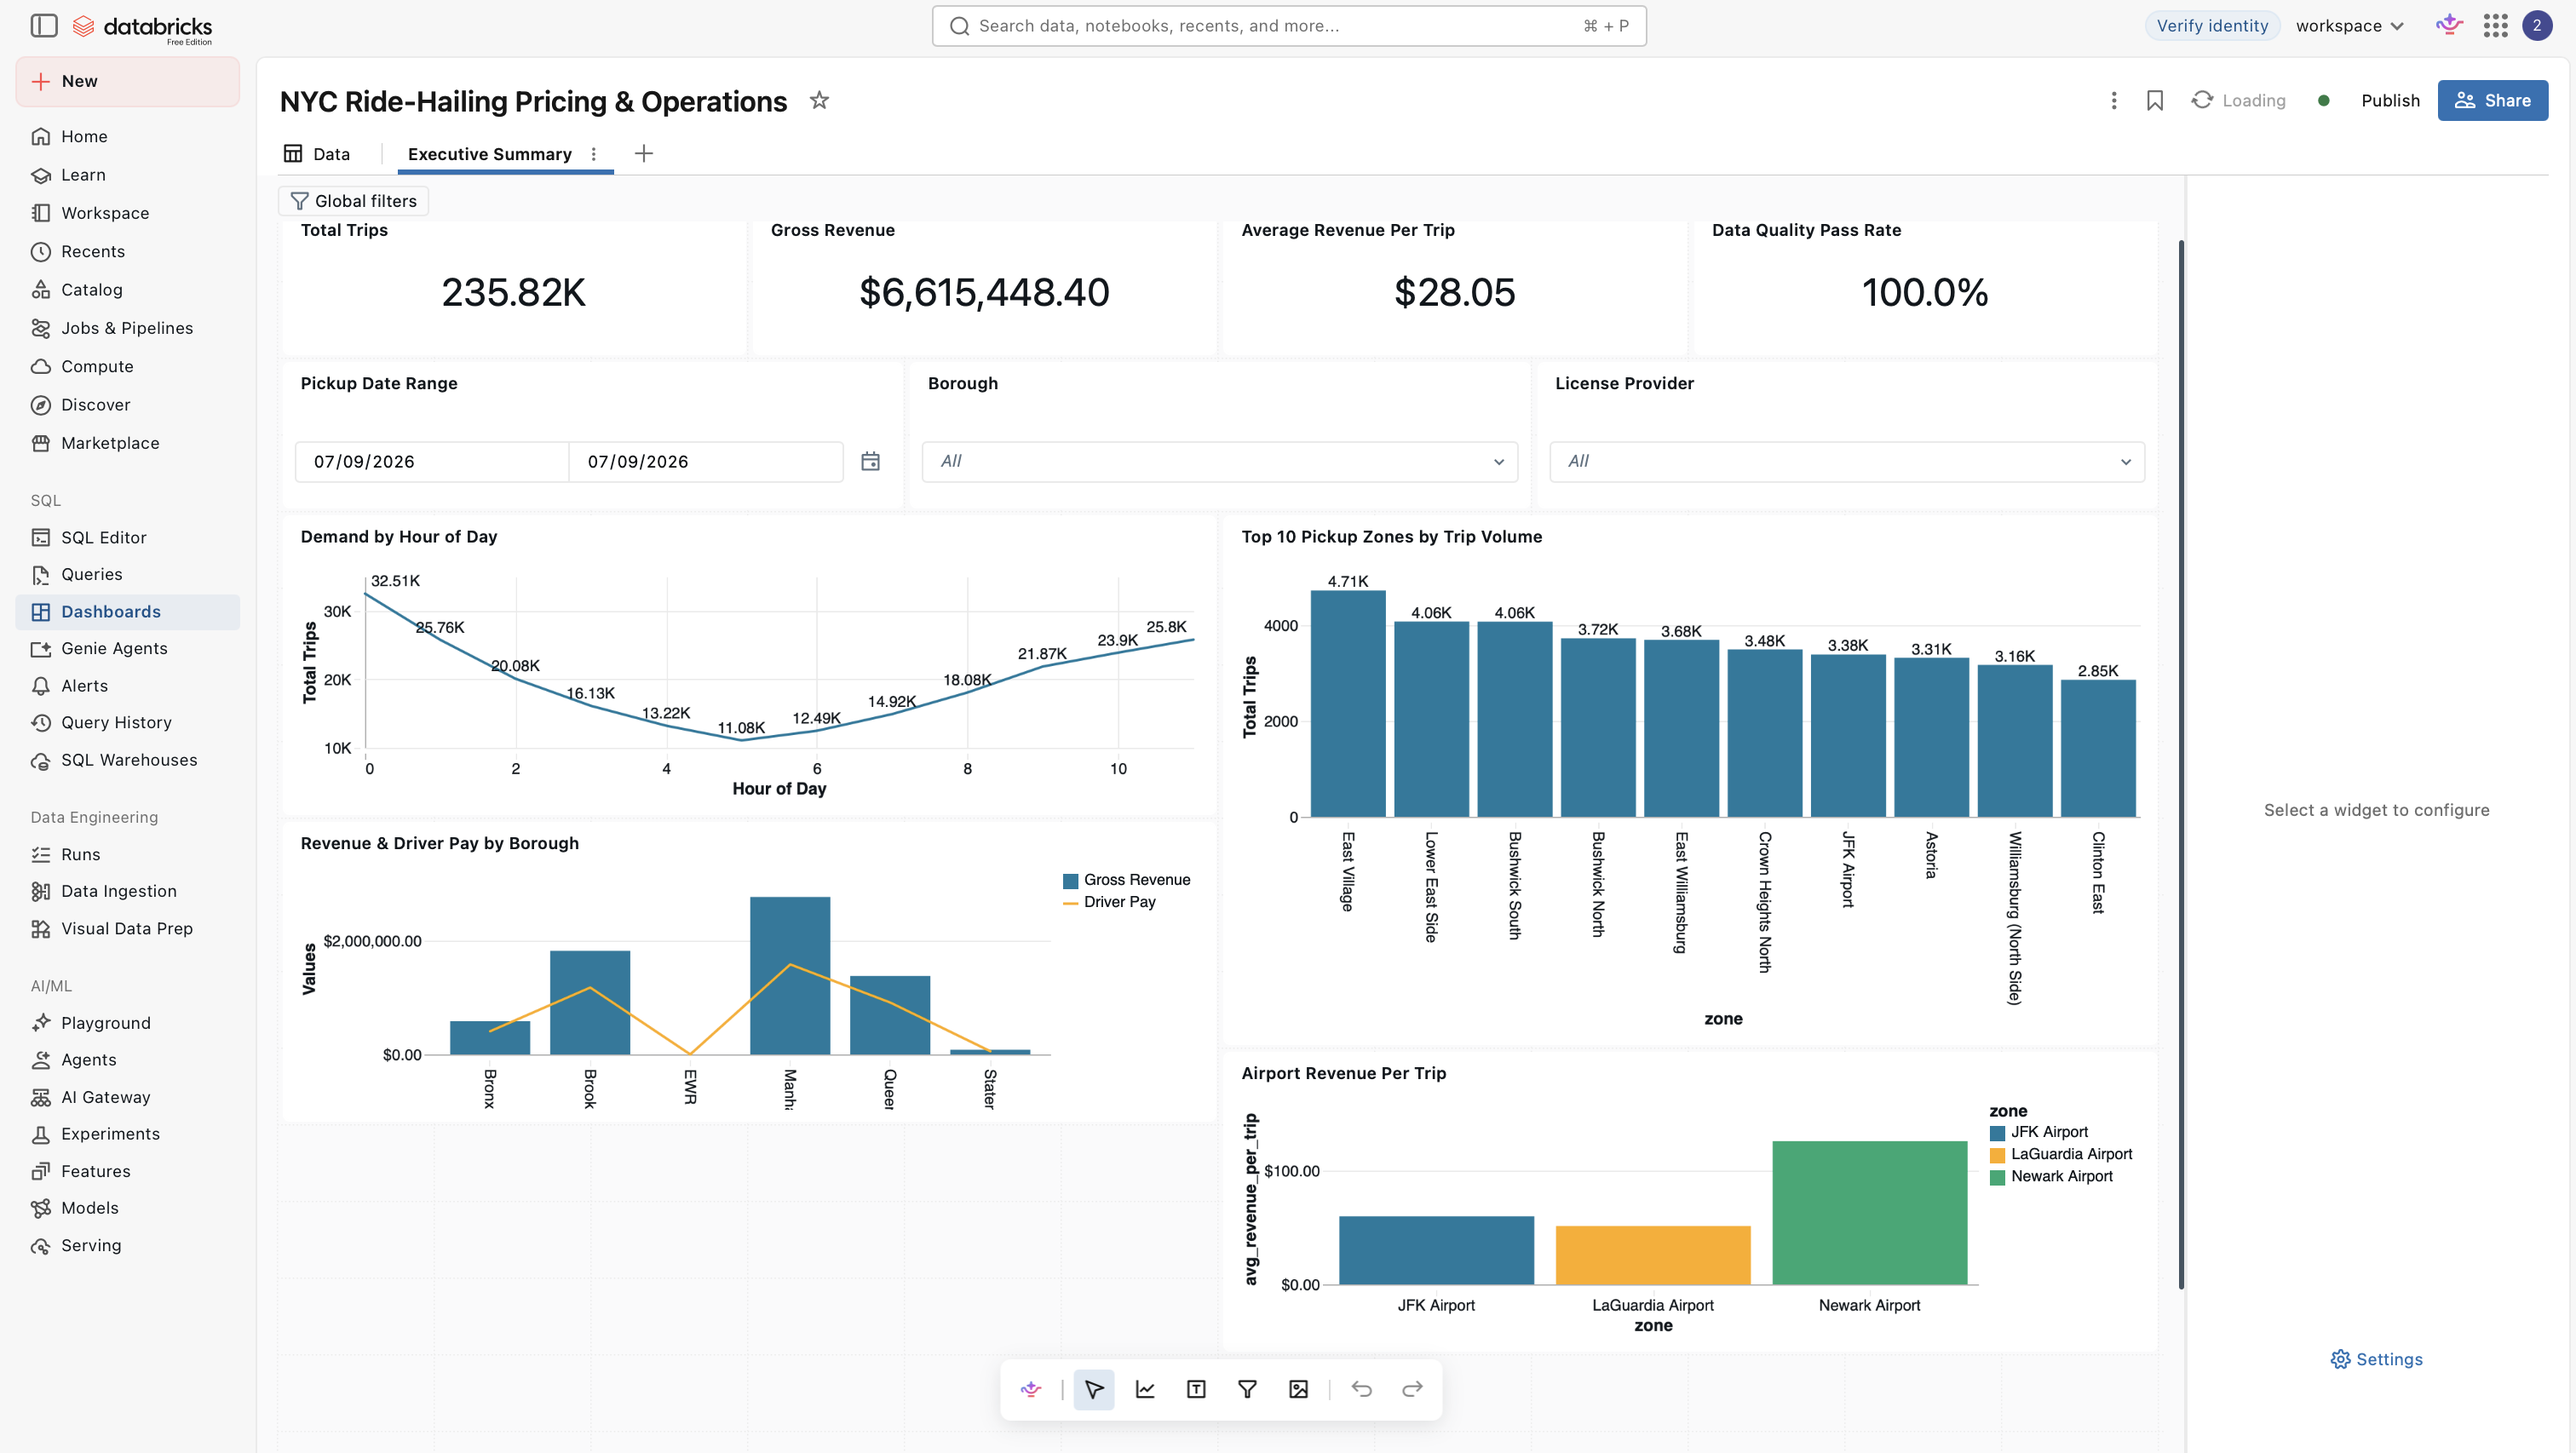
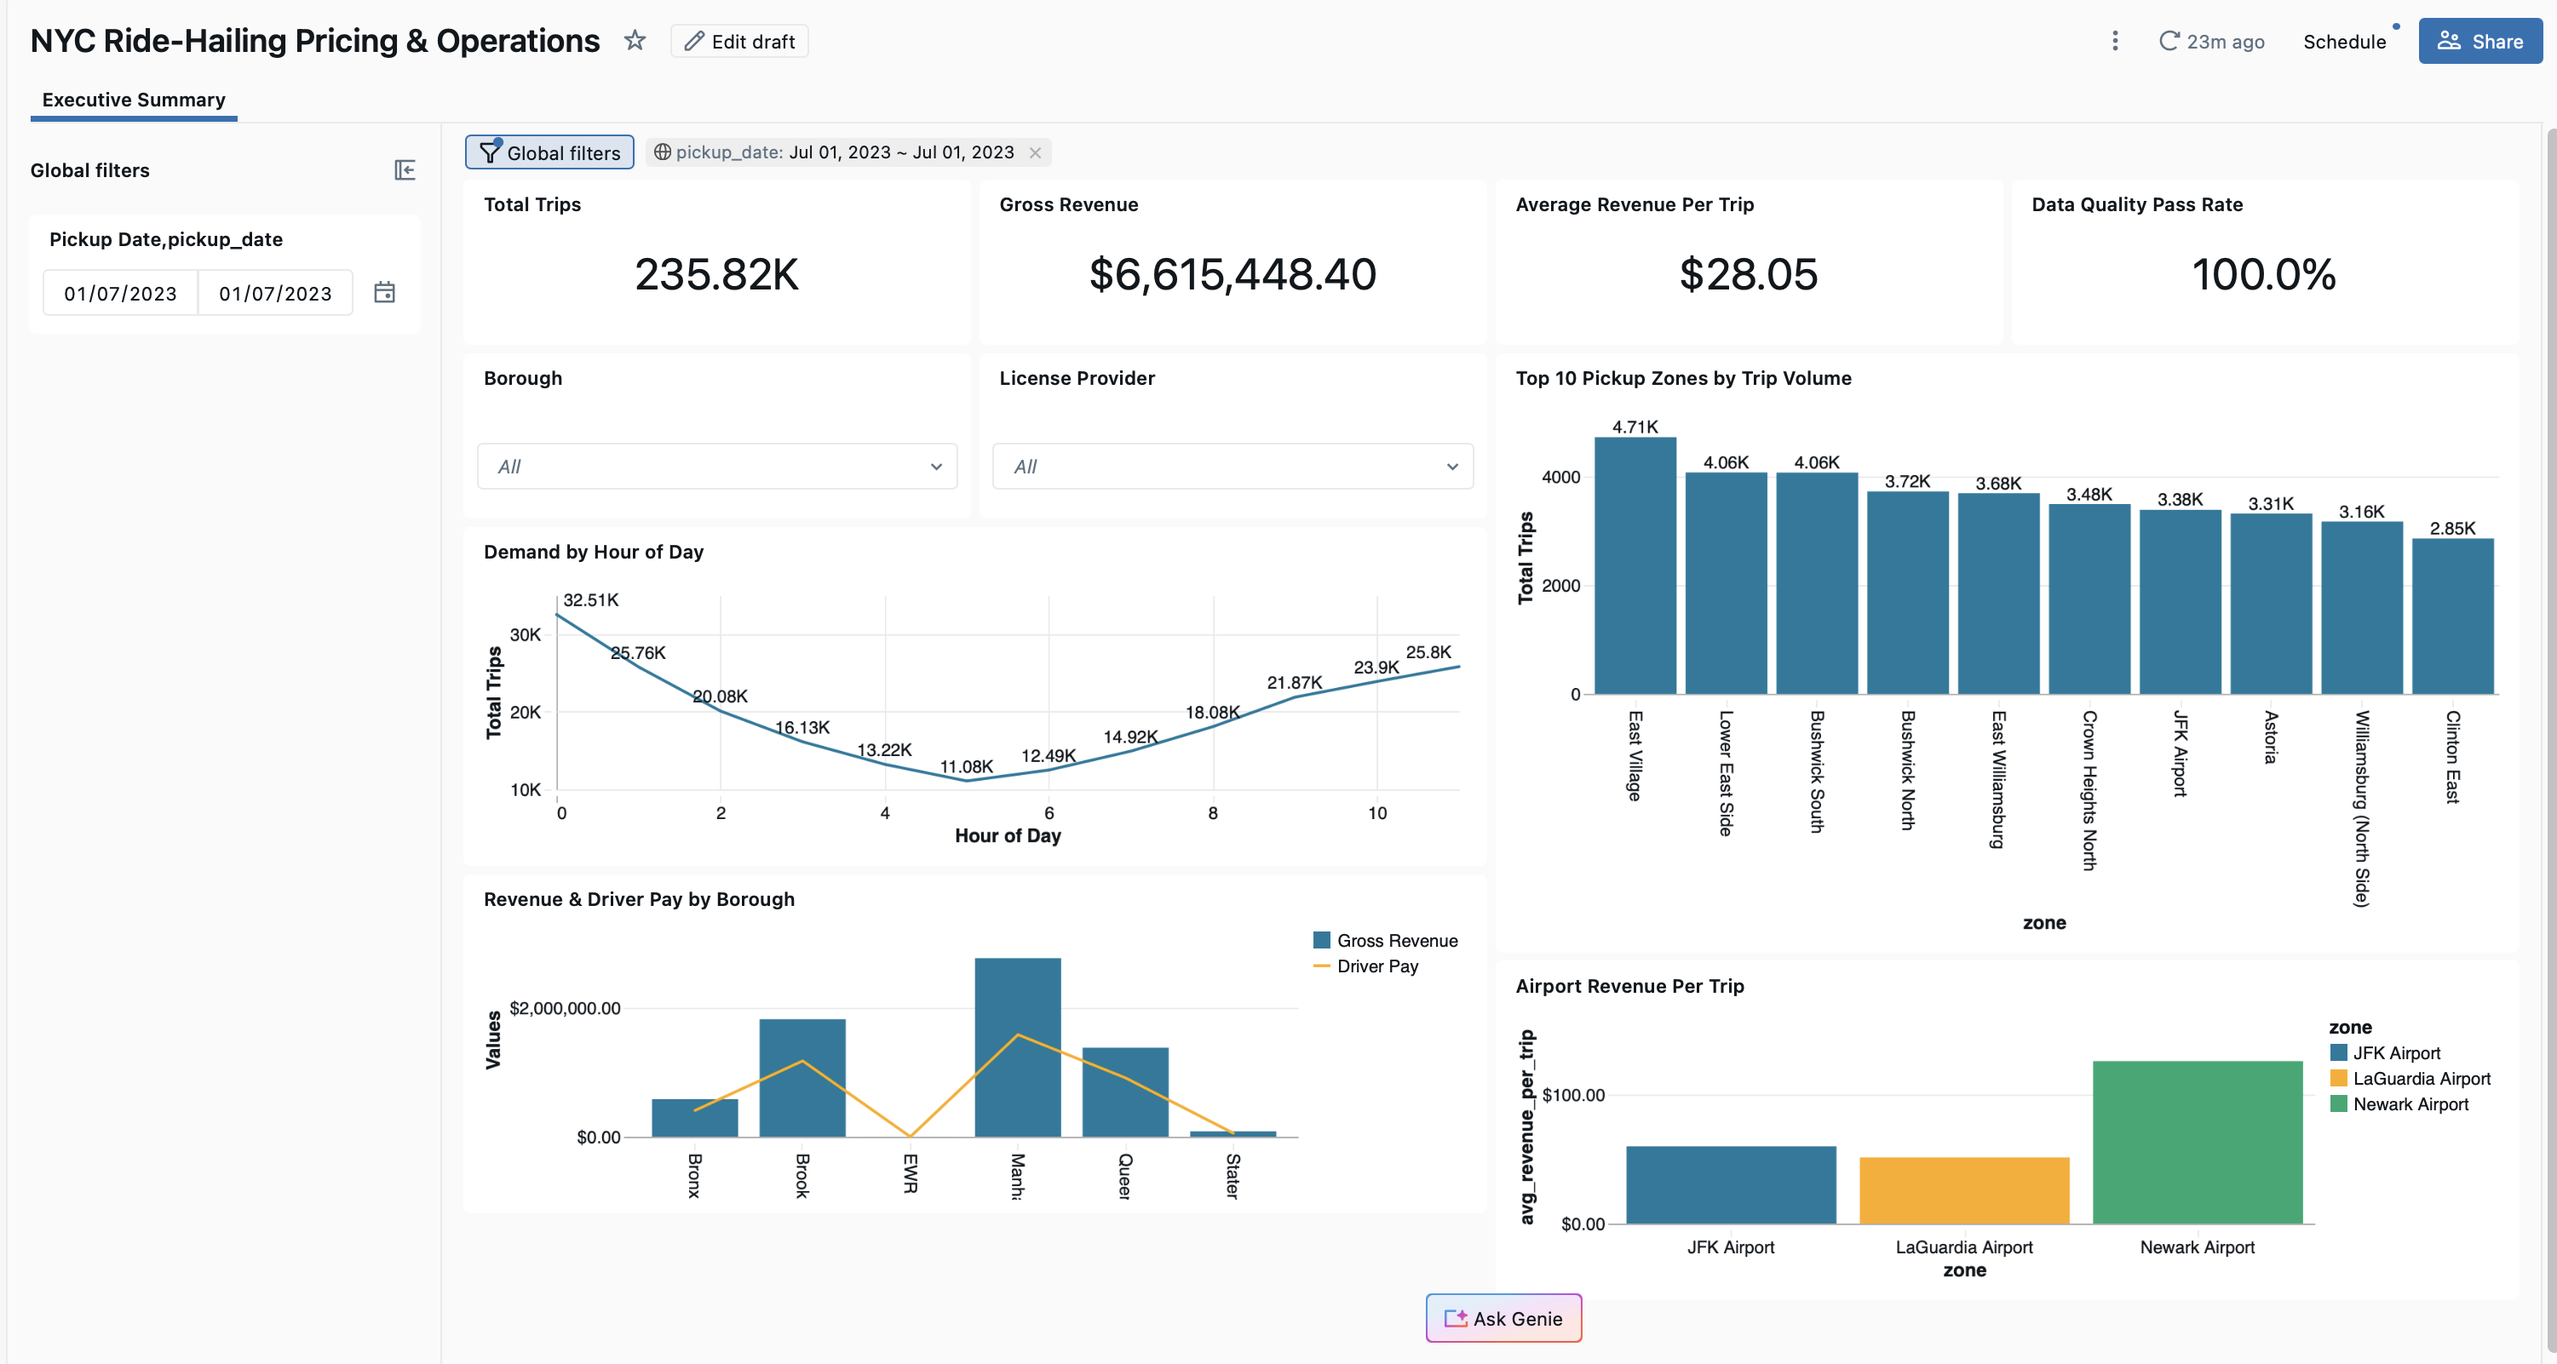
Fix dashboard date filtering and top 10 zone logic

diff --git a/databricks/ride_hailing_medallion_pipeline.py b/databricks/ride_hailing_medallion_pipeline.py
@@ -349,6 +349,34 @@ pricing_features.write.format("delta").mode("overwrite").option("overwriteSchema
     .saveAsTable("gold_airport_hotspots")
 )
 
+# A single date-aware source for every trip-based dashboard visual. Keeping the
+# common filter dimensions in one view prevents widgets from bypassing the
+# dashboard's global date, borough and provider filters.
+spark.sql("""
+CREATE OR REPLACE VIEW workspace.ride_hailing.dashboard_trip_metrics AS
+SELECT
+  pickup_hour_ts,
+  pickup_date,
+  pickup_hour,
+  day_of_week,
+  is_weekend,
+  PULocationID AS pickup_location_id,
+  hvfhs_license_num AS license_provider,
+  borough,
+  zone,
+  service_zone,
+  trip_count,
+  avg_trip_miles,
+  avg_trip_duration_minutes,
+  avg_base_fare,
+  gross_revenue,
+  driver_pay,
+  shared_request_rate,
+  wav_request_rate,
+  PULocationID IN (1, 132, 138) AS is_airport
+FROM workspace.ride_hailing.gold_hourly_zone_metrics
+""")
+
 # COMMAND ----------
 # MAGIC %md
 # MAGIC ## 5. Data quality monitoring and operational audit

diff --git a/docs/OPERATIONS.md b/docs/OPERATIONS.md
@@ -9,6 +9,7 @@
 5. Review `pipeline_quality_audit` and `silver_trips_quarantine`.
 6. Confirm Gold tables refreshed successfully.
 7. Refresh the AI/BI dashboard and validate its KPI totals.
+8. Confirm all trip-based widgets use `dashboard_trip_metrics` and map the global date filter to its `pickup_date` field.
 
 ## Quality gates
 
@@ -30,6 +31,7 @@ Warnings that do not breach a gate remain queryable through the audit and quaran
 | Quarantine spike | Group by `dq_reasons` | Isolate affected source month and inspect source quality |
 | Duplicate-key failure | `trip_id`, ingestion timestamps | Validate key construction and latest-record window |
 | Dashboard totals stale | Gold table history, dashboard refresh time | Refresh the dataset after confirming the pipeline completed |
+| Out-of-range date still shows trip metrics | Dashboard dataset and filter mapping | Point all trip-based widgets to `dashboard_trip_metrics` and map the date picker to `pickup_date` |
 | Full run exceeds capacity | Source months and cluster size | Process one month at a time or use larger compute |
 
 ## Recovery
@@ -49,4 +51,3 @@ ORDER BY checked_at DESC, check_name;
 ## Scheduling recommendation
 
 For production, schedule monthly ingestion as a Databricks Workflow. Add task-level retries, a failure notification, a separate quality task and a final dashboard-refresh task. Use development, test and production catalogs rather than changing the same tables in place.
-

diff --git a/docs/ARCHITECTURE.md b/docs/ARCHITECTURE.md
@@ -68,7 +68,7 @@ flowchart TD
 - Publish daily and hourly zone-level demand and commercial metrics.
 - Join weather features for downstream pricing and modelling.
 - Isolate airport performance for operational analysis.
-- Keep dimensions needed by dashboard filters.
+- Publish one date-aware `dashboard_trip_metrics` view with the common date, borough, zone and provider dimensions needed by every trip-based dashboard visual.
 
 ### Operations and governance
 
@@ -84,4 +84,3 @@ The source-specific trip key combines provider, dispatch base, request/pickup/dr
 ## Production evolution
 
 For production use, the notebook can be separated into Databricks Workflows tasks, with Auto Loader or Lakeflow Declarative Pipelines for ingestion, expectations for quality enforcement, environment-specific catalogs, CI/CD through Databricks Asset Bundles and alerts routed to an operational channel.
-

diff --git a/docs/DATA_DICTIONARY.md b/docs/DATA_DICTIONARY.md
@@ -82,6 +82,12 @@ Hourly zone metrics enriched with weather and commercial ratios. Intended for pr
 
 Daily zone metrics restricted to Newark, JFK and LaGuardia airport location IDs.
 
+## Dashboard view
+
+### `dashboard_trip_metrics`
+
+A shared date-aware view over `gold_hourly_zone_metrics` for all trip-based AI/BI dashboard visuals. It retains `pickup_date`, hour, borough, zone and provider dimensions so one global filter can consistently update every trip, revenue, zone, borough and airport widget. The `is_airport` flag identifies Newark, JFK and LaGuardia pickup zones.
+
 ## Operational table
 
 ### `pipeline_quality_audit`
@@ -95,4 +101,3 @@ Daily zone metrics restricted to Newark, JFK and LaGuardia airport location IDs.
 | `run_id` | Unique pipeline-run identifier |
 | `checked_at` | Check execution timestamp |
 | `source_months` | Source period processed by the run |
-

diff --git a/README.md b/README.md
@@ -133,6 +133,7 @@ For a full run, use `source_mode=public_download` and set `months=07,08,09,10,11
 | Gold | `gold_daily_zone_metrics` | Daily zone-level pricing metrics |
 | Gold | `gold_pricing_feature_mart` | Demand, commercial and weather features |
 | Gold | `gold_airport_hotspots` | Airport-specific commercial performance |
+| Dashboard | `dashboard_trip_metrics` | Shared date-aware source for all trip-based dashboard visuals |
 | Operations | `pipeline_quality_audit` | Persistent quality-check outcomes |
 
 ## Original analysis notebooks
